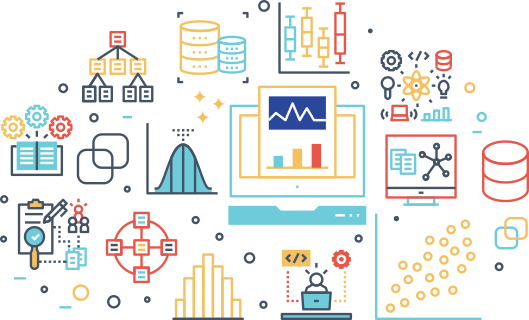
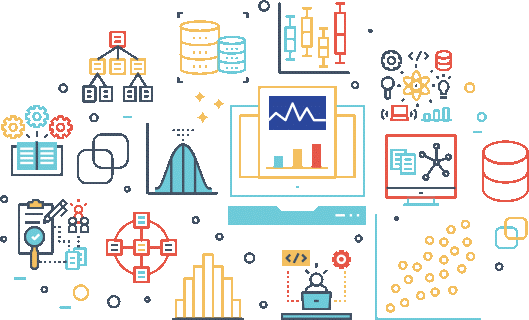
Changed the size of the image

diff --git a/index.html b/index.html
@@ -2,5 +2,5 @@
 layout: home
 author_profile: true
 header:
-  image: "/images/main2.png"
+  image: "/images/main2.jpg"
 ---
